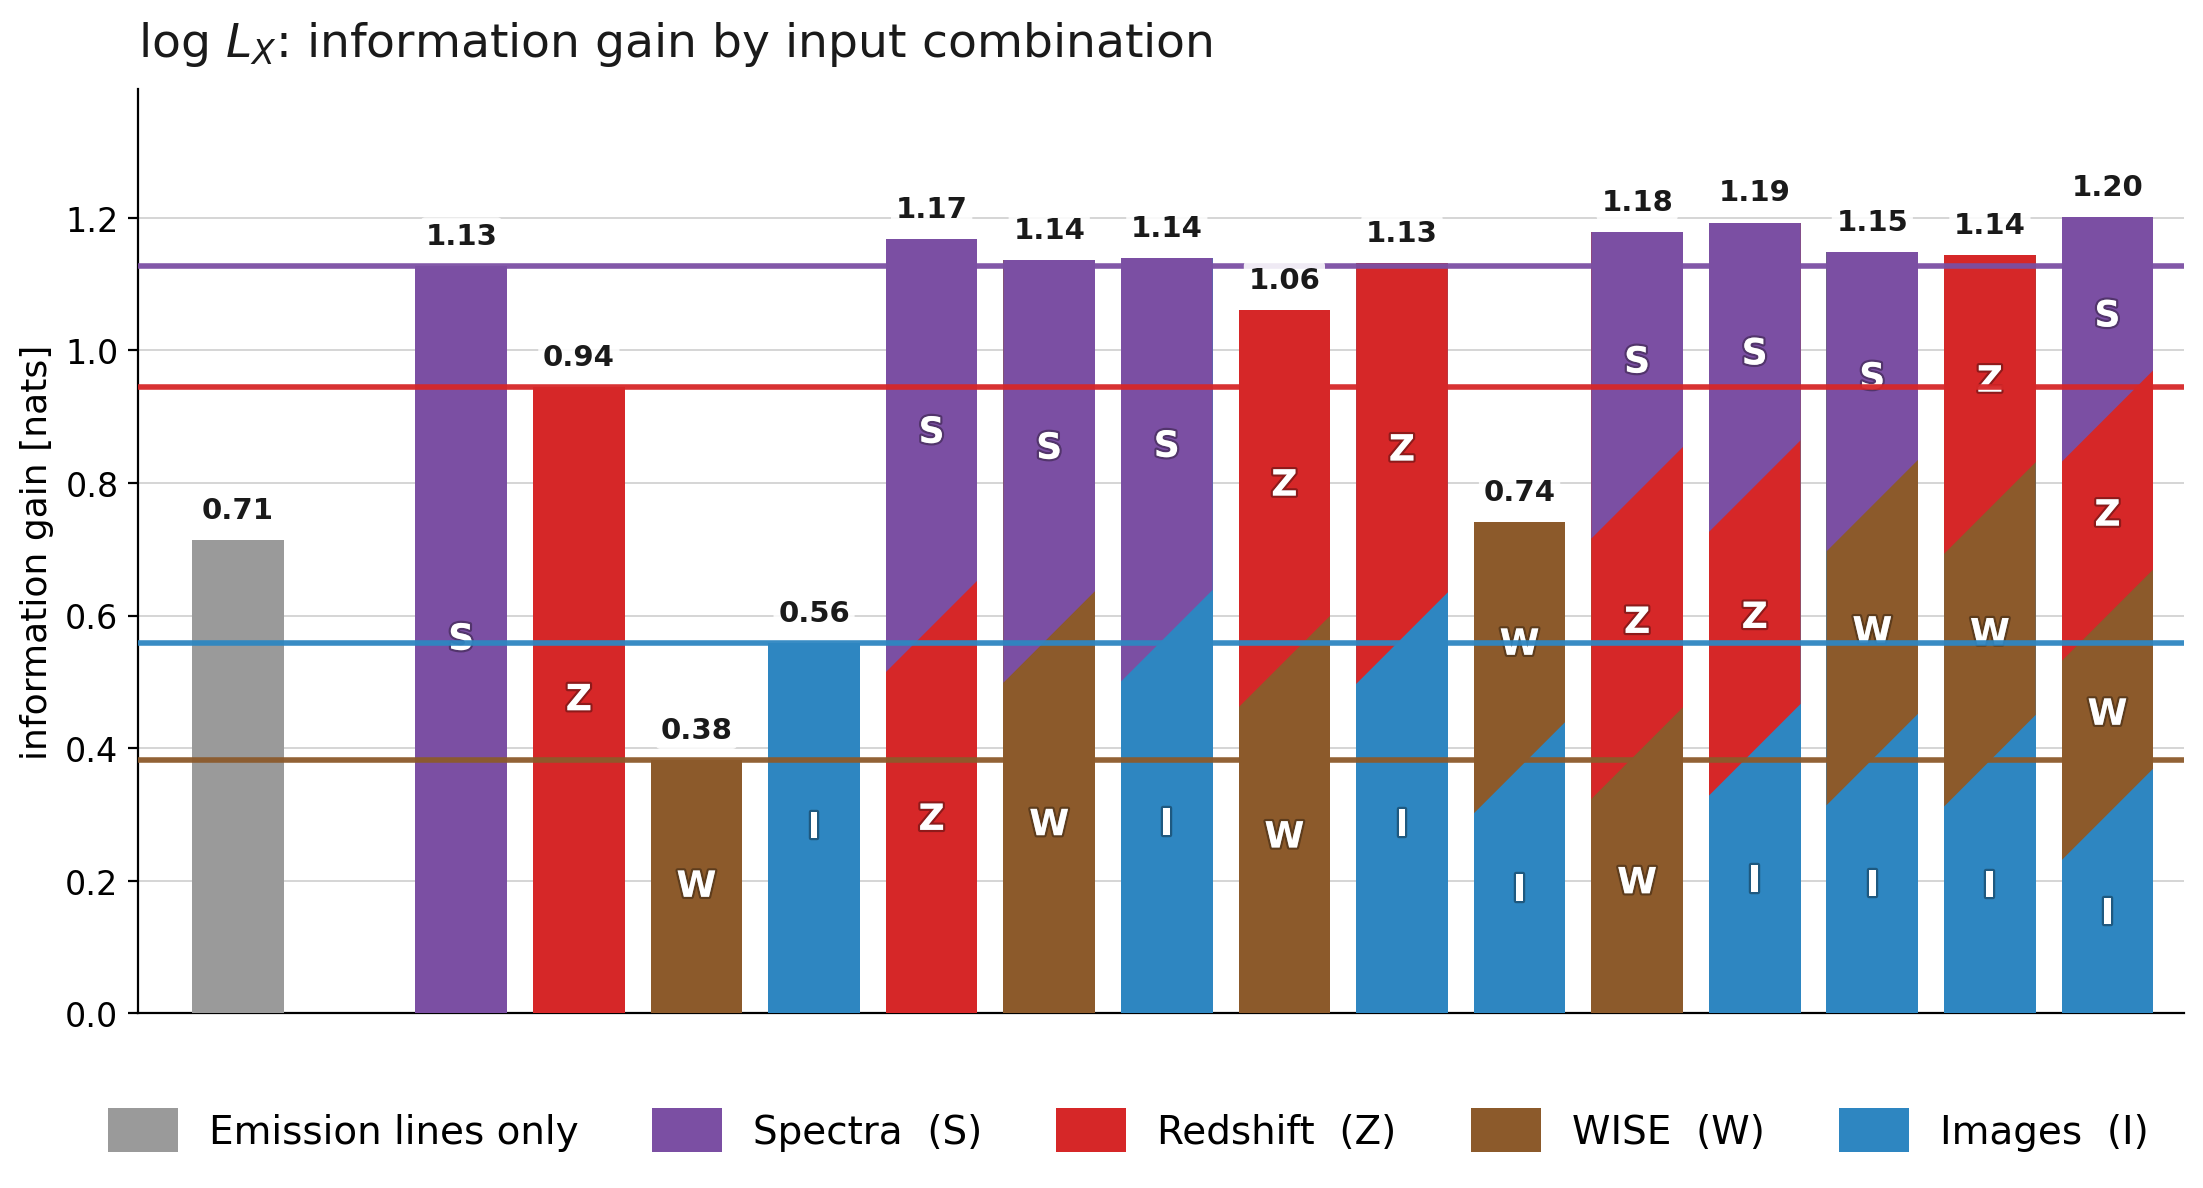
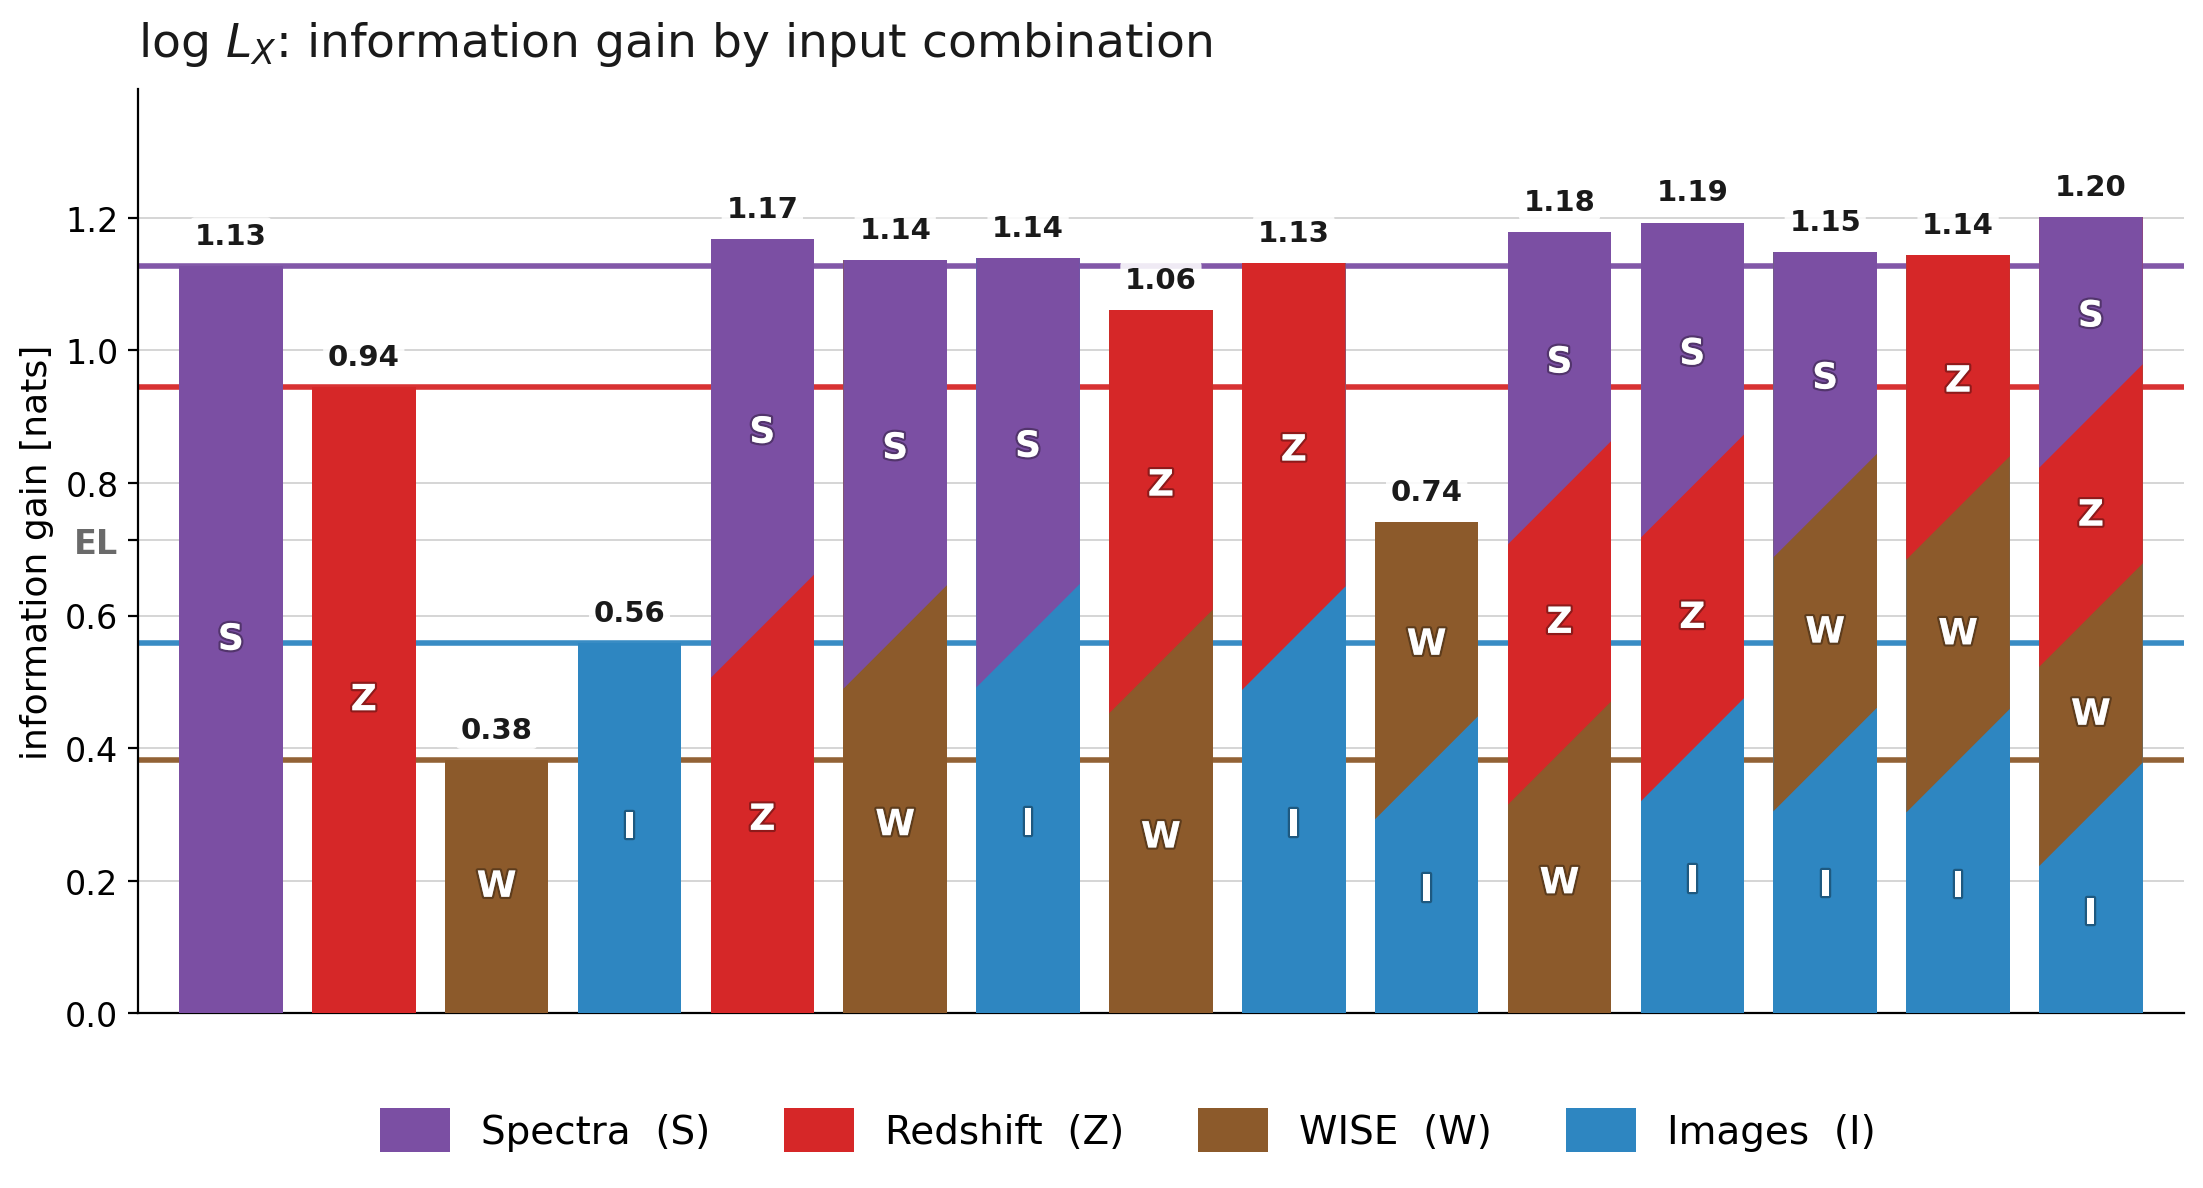
UpSet: reference lines behind the bars, EL as a y tick
Reference lines go back under the bars. The emission-lines-only baseline is no
longer a bar among the combinations -- it is not an input combination, so it now
appears as an extra y tick labelled EL at its level.

Two things that bite when injecting a tick: reformatting the existing ticks with
%g silently turns 0.0 and 1.0 into "0" and "1", so the decimals are derived from
the tick step instead; and EL can land on top of a numeric tick (0.247 vs 0.25
on the flux panel), so any numeric tick within 0.4 steps of it is dropped.

Legend is back to the four modalities pending a decision on how to present EL.

diff --git a/docs/make_modality_upset.py b/docs/make_modality_upset.py
@@ -39,8 +39,7 @@ MODALITIES = ["spectra", "z", "wise", "image"]
 NICE = {"spectra": "Spectra", "z": "Redshift", "wise": "WISE", "image": "Images"}
 LETTER = {"spectra": "S", "z": "Z", "wise": "W", "image": "I"}
 COLOR = {"spectra": "#7B4FA3", "z": "#D62728", "wise": "#8C5A2B", "image": "#2E86C1"}
-BASELINE_C = "#9a9a9a"          # emission-lines-only reference bar
-X_OFFSET = 1.9                  # gap between that bar and the combinations
+BASELINE_C = "#6a6a6a"          # emission-lines-only level, shown as the "EL" y tick
 HEADS = [("log_ml_flux_1", "log flux"), ("log_lx", r"log $L_X$"), ("log_sfr", "log SFR"),
          ("logmstar", r"log $M_*$")]
 
@@ -113,27 +112,22 @@ def value_label(ax, x, v, hi) -> None:
 
 def panel(ax, values: dict[str, float], order, title: str,
           baseline: float = np.nan) -> None:
-    xs = np.arange(len(order)) + X_OFFSET
+    xs = np.arange(len(order))
     vals = np.array([values.get(key(c), np.nan) for c in order], float)
-    hi = np.nanmax([np.nanmax(vals) if np.isfinite(vals).any() else 1.0,
-                    baseline if np.isfinite(baseline) else 0.0])
+    hi = np.nanmax(vals) if np.isfinite(vals).any() else 1.0
     # limits FIRST: banded_bar reads transData to get the 45-degree slope right
-    ax.set_xlim(-0.85, len(order) + X_OFFSET - 0.35)
+    ax.set_xlim(-0.7, len(order) - 0.3)
     ax.set_ylim(0, hi * 1.16)
-    if np.isfinite(baseline):
-        ax.bar([0.0], [baseline], width=0.78, color=BASELINE_C, zorder=3)
-        value_label(ax, 0.0, baseline, hi)
     for x, combo, v in zip(xs, order, vals):
         members = [m for m in MODALITIES if m in combo]     # fixed vertical order
         banded_bar(ax, x, v, 0.78, members)
         if np.isfinite(v):
             value_label(ax, x, v, hi)
-    # solid and ON TOP of the bars, so each modality's solo level can be read
-    # straight across the combinations that contain it
+    # solid, but UNDER the bars
     for m in MODALITIES:
         v = values.get(key((m,)), np.nan)
         if np.isfinite(v):
-            ax.axhline(v, ls="-", lw=2.0, color=COLOR[m], alpha=0.95, zorder=6)
+            ax.axhline(v, ls="-", lw=2.0, color=COLOR[m], alpha=0.95, zorder=2)
     ax.set_ylabel("information gain [nats]", fontsize=13)
     ax.set_title(title, fontsize=17, color=INK, loc="left", pad=12)
     ax.grid(axis="y", color=GRID, lw=0.7, zorder=0)
@@ -142,6 +136,26 @@ def panel(ax, values: dict[str, float], order, title: str,
     ax.tick_params(labelsize=12)
     for sp in ("top", "right"):
         ax.spines[sp].set_visible(False)
+    # the emission-lines-only baseline as an extra y tick rather than a bar --
+    # it is not an input combination, so it does not belong among them
+    if np.isfinite(baseline):
+        lo, up = ax.get_ylim()
+        ticks = [t for t in ax.get_yticks() if lo <= t <= up]
+        # keep the decimals matplotlib would have used; f"{t:g}" silently turns
+        # 0.0 and 1.0 into "0" and "1" and the axis stops looking uniform
+        step = (ticks[1] - ticks[0]) if len(ticks) > 1 else 1.0
+        dec = max(0, int(np.ceil(-np.log10(step)))) if step > 0 else 1
+        # drop a numeric tick that EL would print on top of
+        ticks = [t for t in ticks if abs(t - baseline) > 0.4 * step]
+        labels = [f"{t:.{dec}f}" for t in ticks]
+        ticks.append(baseline)
+        labels.append("EL")
+        ax.set_yticks(ticks)
+        ax.set_yticklabels(labels)
+        for lab, t in zip(ax.get_yticklabels(), ticks):
+            if t == baseline:
+                lab.set_color(BASELINE_C)
+                lab.set_fontweight("bold")
 
 
 def main() -> None:
@@ -165,9 +179,8 @@ def main() -> None:
         targets = [("flux", args.single_label, df)]
 
     base = pd.read_csv(args.baseline) if args.baseline and args.baseline.exists() else None
-    handles = [Patch(facecolor=BASELINE_C, edgecolor="none", label="Emission lines only")]
-    handles += [Patch(facecolor=COLOR[m], edgecolor="none",
-                      label=f"{NICE[m]}  ({LETTER[m]})") for m in MODALITIES]
+    handles = [Patch(facecolor=COLOR[m], edgecolor="none",
+                     label=f"{NICE[m]}  ({LETTER[m]})") for m in MODALITIES]
     for head, lbl, d in targets:
         vals = dict(zip(d.input_group.astype(str), d.info_gain_nats.astype(float)))
         fig, ax = plt.subplots(figsize=(13.2, 6.0))
@@ -178,7 +191,7 @@ def main() -> None:
                 bval = float(r.info_gain_nats.iloc[0])
         panel(ax, vals, order, f"{lbl}: information gain by input combination",
               baseline=bval)
-        fig.legend(handles=handles, loc="lower center", ncol=5, frameon=False,
+        fig.legend(handles=handles, loc="lower center", ncol=4, frameon=False,
                    fontsize=14, bbox_to_anchor=(0.5, -0.035), handlelength=1.8,
                    handleheight=1.4, columnspacing=1.9)
         out = args.figdir / f"fig_upset_{head}.png"
